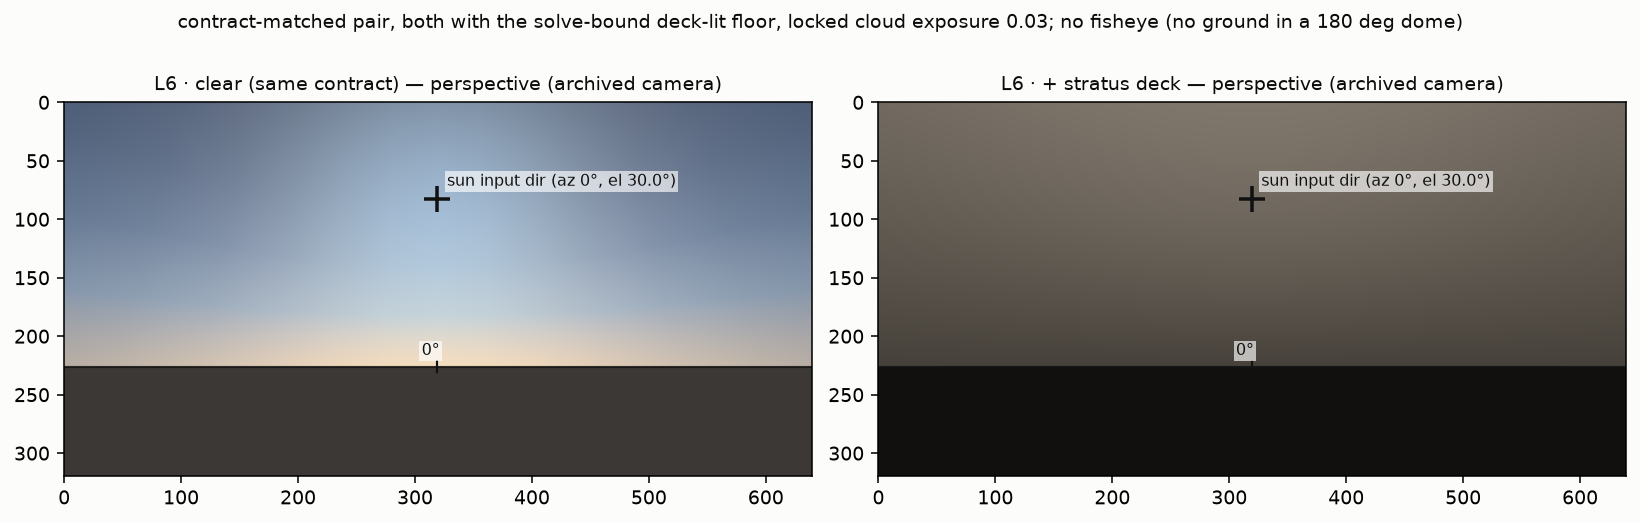
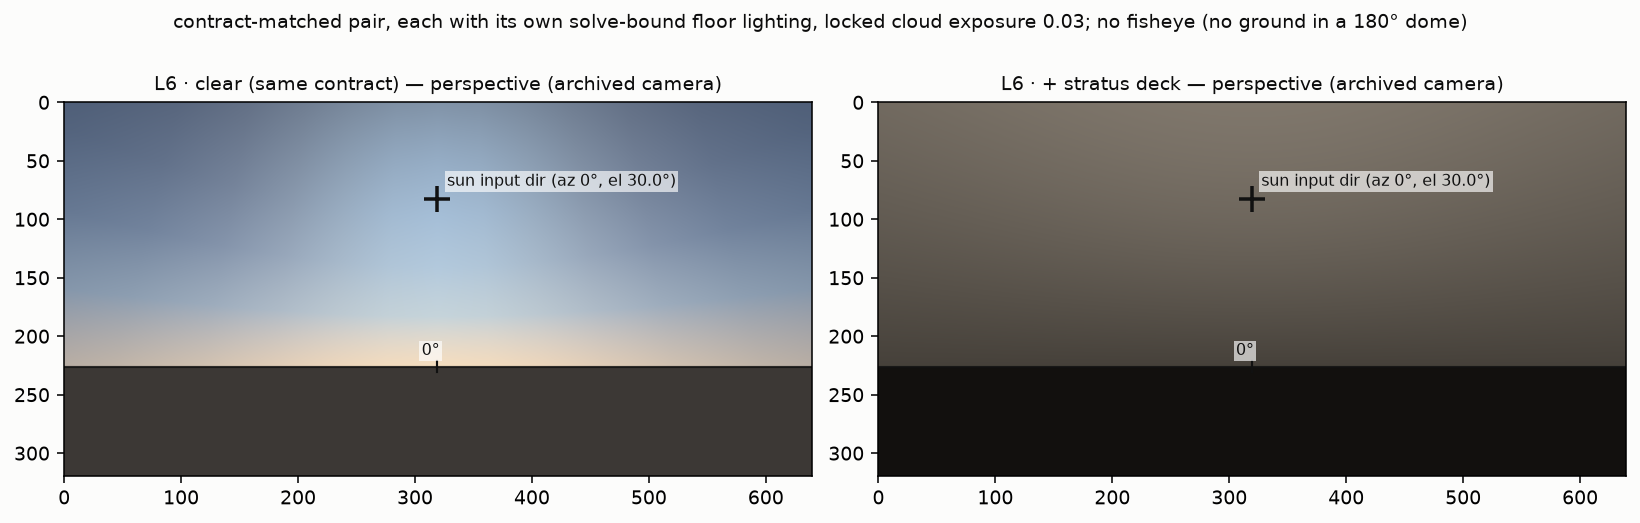
fix(task-figures-refresh): vdef.ground 显式接入渲染，修正 pipeline-view 地板与声明分叉

Changed region(s): [[0.0933, 0.0306, 0.9018, 0.0612]]

diff --git a/experiments/layerstory/refresh_figures.py b/experiments/layerstory/refresh_figures.py
@@ -185,8 +185,8 @@ FIGURES: dict[str, FigureDef] = {
          ViewPanelDef("l6_cloud_30", "total", "rect", True,
                       "L6 · + stratus deck — " + _RECT)),
         ("docs/physics/LAYER_STORY.md §L6", "docs/physics/MAINLINE.zh.md 图7"),
-        "contract-matched pair, both with the solve-bound deck-lit floor, "
-        "locked cloud exposure 0.03; no fisheye (no ground in a 180 deg dome)"),
+        "contract-matched pair, each with its own solve-bound floor lighting, "
+        "locked cloud exposure 0.03; no fisheye (no ground in a 180° dome)"),
     "pipeline-spectrum": FigureDef(
         "pipeline-spectrum", "layer_story_pipeline_spectrum_v2.png", "spectrum",
         SpectrumPanelDef(
@@ -642,9 +642,19 @@ def _sun_of(data, key: str) -> tuple[float, float]:
 
 
 def rect_panel(ax, data, vdef: ViewPanelDef, overrides=None) -> dict:
-    """The archived perspective view through the untouched production path."""
+    """The archived perspective view through the untouched production path.
+
+    ``vdef.ground`` is the authoritative ground decision for the panel and is
+    passed to render_result explicitly -- the archive display record alone
+    would silently re-impose the solving run's own choice (the cloud-group
+    record carries ground=True), contradicting the registry/manifest/caption
+    declarations.  A ground panel additionally requires the solve-bound
+    materials; a no-ground panel renders the no-ground display convention
+    below the horizon.
+    """
     key = vdef.key
-    display = {**_display_of(data, key), **(overrides or {})}
+    display = {**_display_of(data, key), "ground": vdef.ground,
+               **(overrides or {})}
     pres = ls.bind(data, key, vdef.part)
     if vdef.ground and not (pres.ground_supported
                             and pres.ground_albedo is not None

diff --git a/experiments/tests/test_figures_refresh.py b/experiments/tests/test_figures_refresh.py
@@ -304,3 +304,35 @@ def test_historical_snapshots_are_byte_identical():
         a = hashlib.sha256((root / original).read_bytes()).hexdigest()
         b = hashlib.sha256((hist / snapshot).read_bytes()).hexdigest()
         assert a == b, snapshot
+
+
+def test_ground_consumption_matches_registry(data, monkeypatch):
+    """The registry's ground decision reaches render_result: the cloud pair
+    renders through the production ground path consuming each run's own
+    solve-bound materials; pipeline-view renders ground=False (plan §3) --
+    captured consumption, not declarations."""
+    calls = []
+    orig = render.render_result
+
+    def spy(pres, **kwargs):
+        calls.append((pres, dict(kwargs)))
+        return orig(pres, **kwargs)
+
+    monkeypatch.setattr(render, "render_result", spy)
+    rf.render_figures(data, ["cloud", "pipeline-view"], NPZ)
+    grounds = [(pres, kw) for pres, kw in calls if kw.get("ground") is True]
+    noground = [(pres, kw) for pres, kw in calls
+                if kw.get("ground") is False]
+    assert len(grounds) == 2 and len(noground) == 1
+    matched = set()
+    for pres, _kw in grounds:
+        for key in ("l6_clear_30", "l6_cloud_30"):
+            if (np.array_equal(pres.ground_albedo,
+                               data[f"{key}/ground_albedo"])
+                    and np.array_equal(pres.ground_direct_irradiance,
+                                       data[f"{key}/ground_direct_irradiance"])):
+                matched.add(key)
+    assert matched == {"l6_clear_30", "l6_cloud_30"}
+    pres, _kw = noground[0]
+    np.testing.assert_array_equal(pres.radiance.reshape(-1, pres.wl.size),
+                                  data["l6_clear_30/total"])
